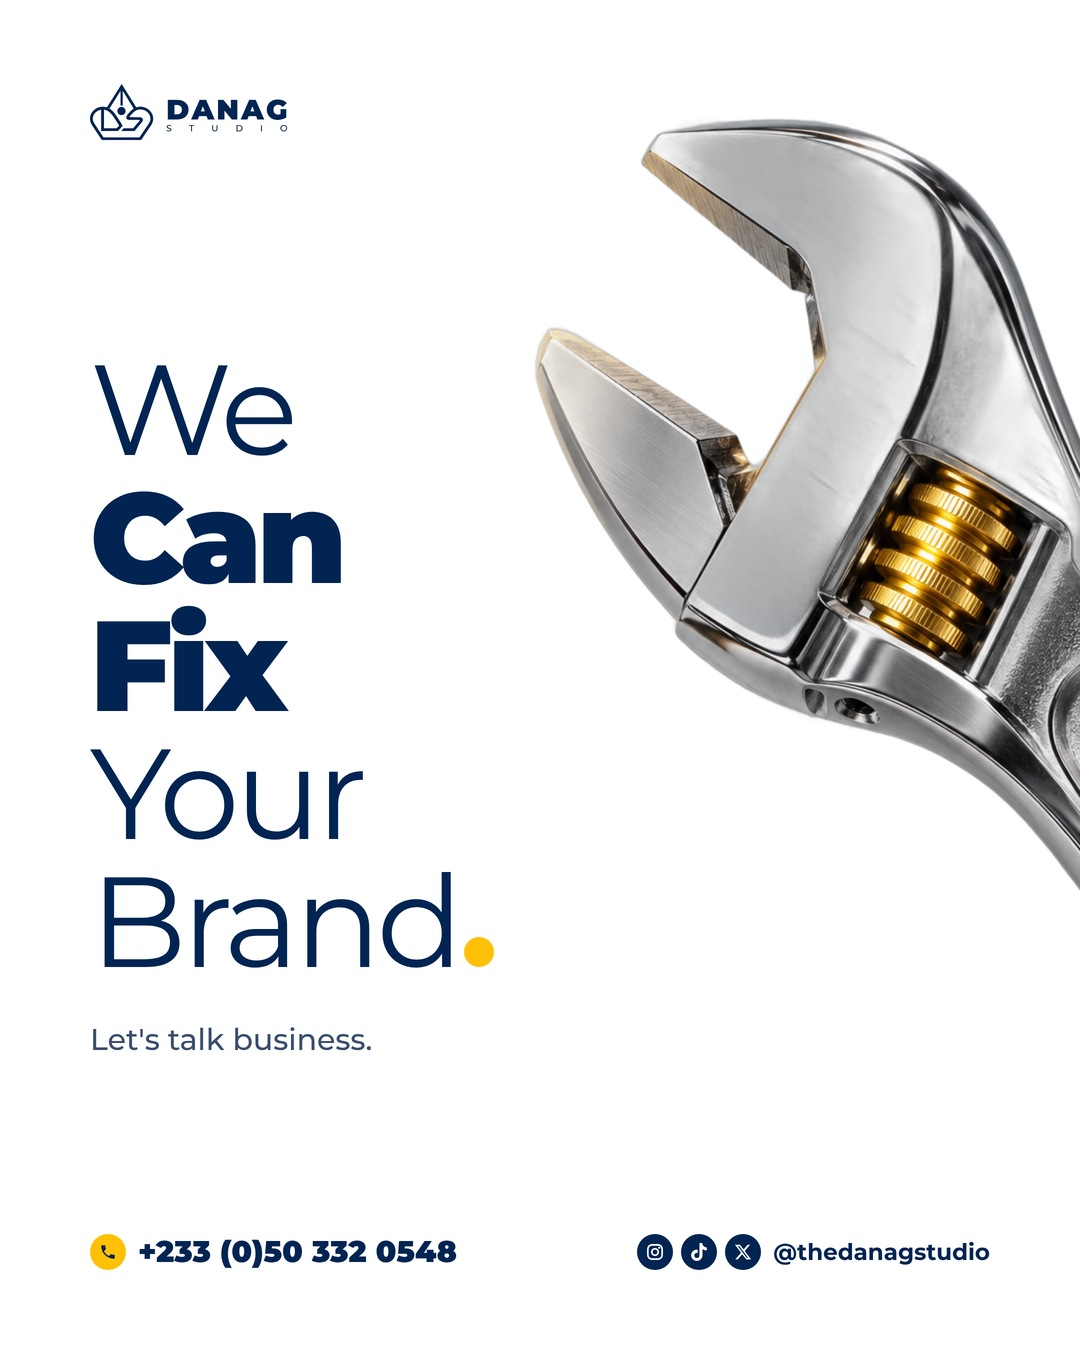
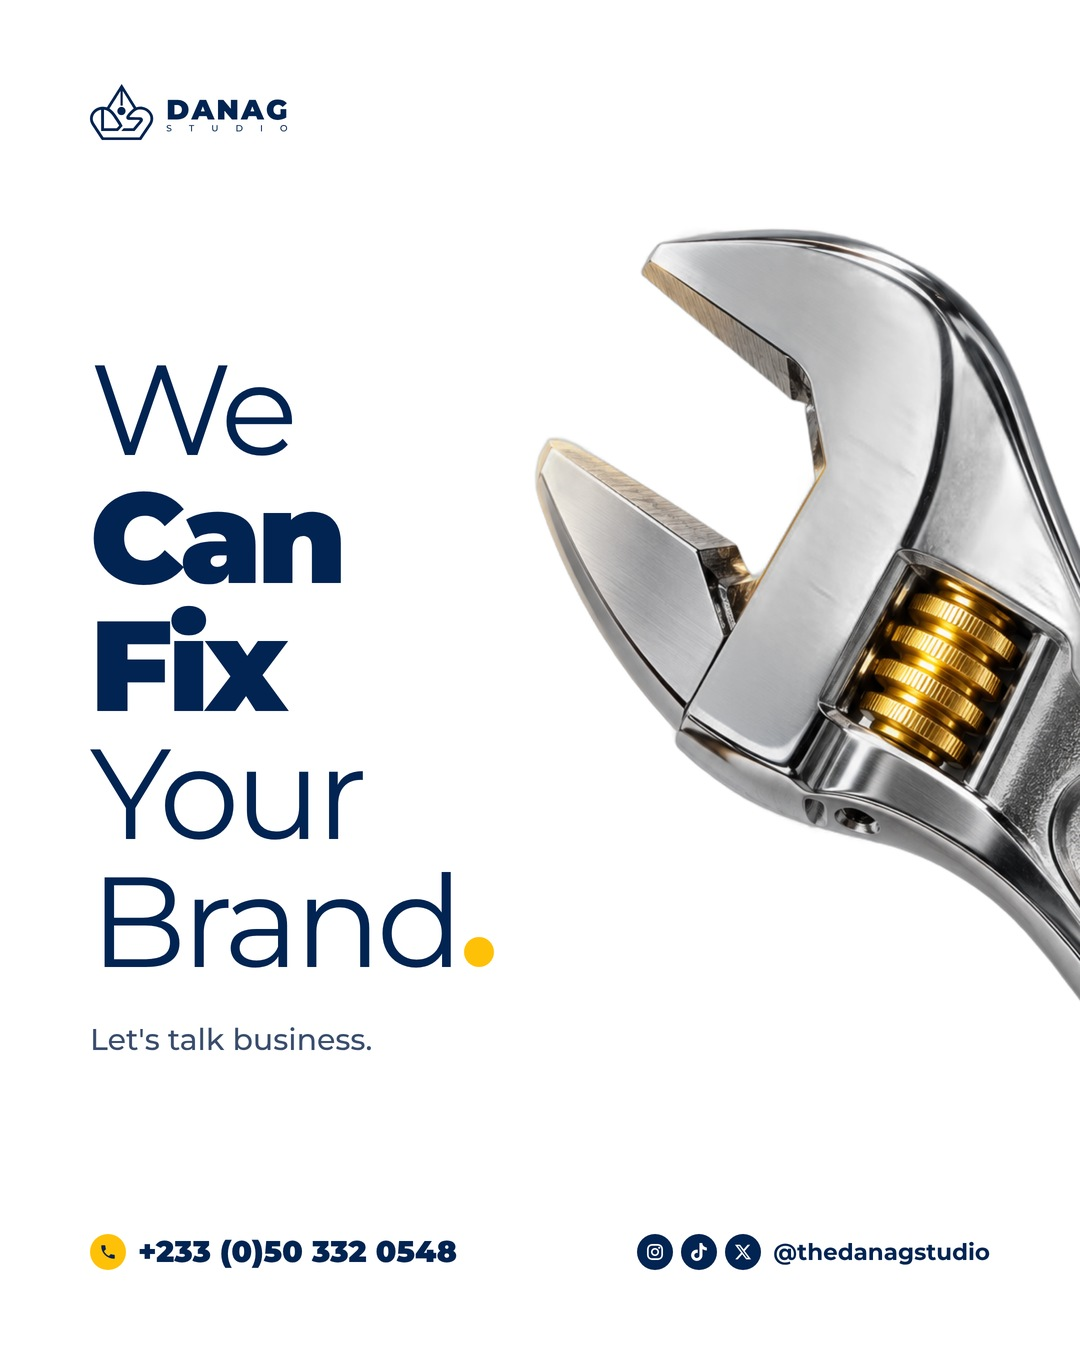
P6 wrench lowered
Claude-Session: https://claude.ai/code/session_016a1VN4sEuNiBsko23wNLQZ

Changed region(s): [[0.4889, 0.0622, 1.0, 0.7467]]

diff --git a/promo/render_hero.py b/promo/render_hero.py
@@ -21,7 +21,7 @@ CFG = {
    head='Good <span class="box">design</span> is what<br>separates you from<br>everyone else', sub='Flyers, product visuals and social media that make you instantly recognisable.', btn='Stand out now'),
  'P5': dict(theme='navy', pos='left', pic='70% center', size=96,
    head='You\'ve got<br><span class="g">the audience</span>', sub2='But not their <span class="g">attention?</span>', sub='Having followers isn\'t enough. You need designs that make them stop.'),
- 'P6': dict(theme='white', pos='left', pic='150px 0/100% auto no-repeat', size=128,
+ 'P6': dict(theme='white', pos='left', pic='150px 110px/100% auto no-repeat', size=128,
    head='We<br><b>Can</b><br><b>Fix</b><br>Your<br>Brand', light=True,
    sub='Let\'s talk business.', top=345),
 }[key]
